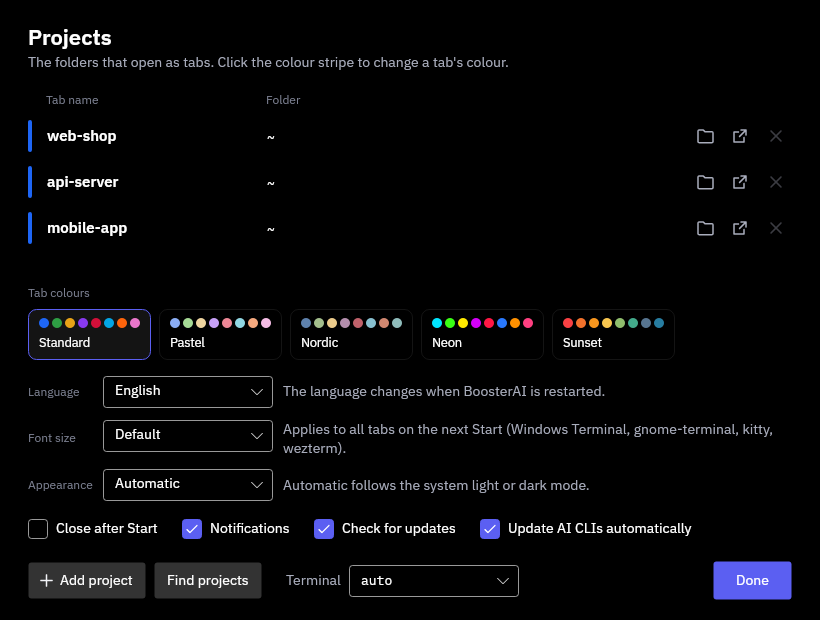
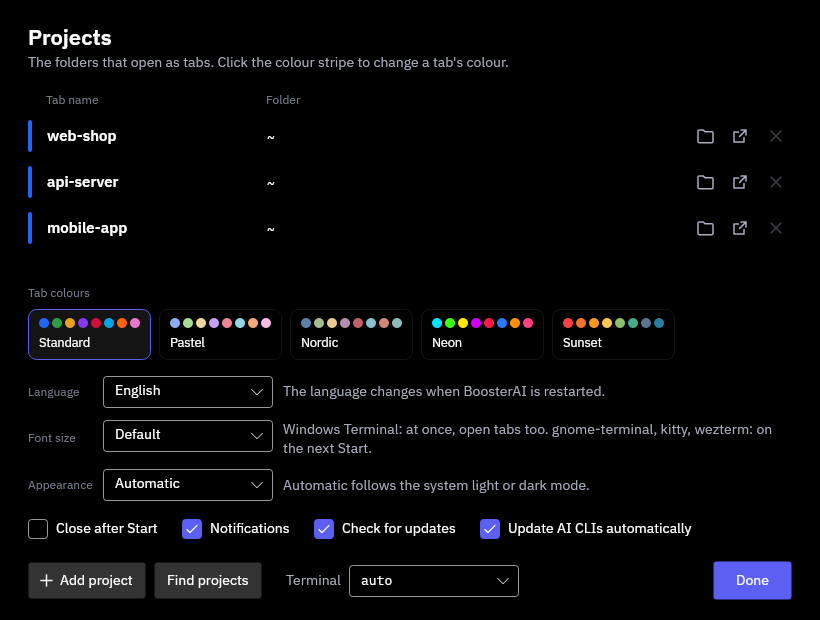
Save the zoom choice at once and apply it to open Windows Terminal tabs (#61)
A zoom chosen in Settings lived only in memory until the Settings or main
window closed, so the install script's Stop-Process -Force (or a crash or
logoff) lost it, and a second running instance saved its older value back on
its frequent update-check saves. The setter now saves immediately, every save
takes over settings another instance changed on disk (ConfigMerge), the
Windows fragment is rewritten and Windows Terminal nudged to reload at once,
and the Install orchestra tab no longer rewrites the fragment without zoom.

Changed region(s): [[0.3354, 0.6742, 0.9451, 0.7355]]

diff --git a/tests/BoosterAI.Tests/ConfigSaveTests.cs b/tests/BoosterAI.Tests/ConfigSaveTests.cs
@@ -1,0 +1,110 @@
+using BoosterAI;
+using Xunit;
+
+/// <summary>Tests that point ConfigStore at their own file; ConfigStore.PathOnDisk is global, so they never run in parallel.</summary>
+[CollectionDefinition(Name, DisableParallelization = true)]
+public class ConfigFileCollection
+{
+    public const string Name = "ConfigFile";
+}
+
+[Collection(ConfigFileCollection.Name)]
+public class ZoomSaveTests : IDisposable
+{
+    private readonly string _root = Path.Combine(Path.GetTempPath(), "bs-zoom-" + Guid.NewGuid().ToString("N"));
+
+    public ZoomSaveTests()
+    {
+        Directory.CreateDirectory(_root);
+        ConfigStore.UseFile(Path.Combine(_root, "config.json"));
+        ConfigStore.Save(new AppConfig { Tabs = [new TabConfig { Name = "Alpha" }] });
+    }
+
+    public void Dispose() => Directory.Delete(_root, recursive: true);
+
+    private static MainViewModel Started() => new(ConfigStore.Load());
+
+    private static ZoomChoice Choice(MainViewModel vm, int percent) => vm.ZoomChoices.Single(c => c.Percent == percent);
+
+    [Fact]
+    public void AZoomChoiceIsSavedAtOnceAndSurvivesARestart()
+    {
+        var vm = Started();
+        vm.SelectedZoom = Choice(vm, 80);
+
+        // No Settings close or app exit: the install script stops the app with Stop-Process -Force.
+        Assert.Equal(80, ConfigStore.Load().ZoomPercent);
+        Assert.Equal(80, Started().SelectedZoom.Percent);
+    }
+
+    [Fact]
+    public void OtherSavesOfTheSameInstanceKeepTheZoom()
+    {
+        var vm = Started();
+        vm.SelectedZoom = Choice(vm, 125);
+        vm.Tabs.Add(new TabViewModel(new TabConfig { Name = "Beta" }, vm, 1));
+        vm.MoveTab(0, 1);
+        vm.Save();
+
+        Assert.Equal(125, ConfigStore.Load().ZoomPercent);
+        Assert.Equal(["Beta", "Alpha"], ConfigStore.Load().Tabs.Select(t => t.Name));
+    }
+
+    [Fact]
+    public void AnOlderInstanceDoesNotPutBackTheOldZoom()
+    {
+        var tray = Started();
+        var settings = Started();
+        settings.SelectedZoom = Choice(settings, 80);
+
+        // The instance in the tray still holds 0 and saves its whole config, e.g. after an update check.
+        tray.Save();
+
+        Assert.Equal(80, ConfigStore.Load().ZoomPercent);
+        Assert.Equal(80, tray.SelectedZoom.Percent);
+        // Its own later choice still wins.
+        tray.SelectedZoom = Choice(tray, 150);
+        settings.Save();
+        Assert.Equal(150, ConfigStore.Load().ZoomPercent);
+    }
+}
+
+public class ConfigMergeTests
+{
+    [Fact]
+    public void EverySettingOutsideTheTabsIsTakenFromAnotherInstance()
+    {
+        var baseline = new AppConfig();
+        var disk = new AppConfig
+        {
+            WslDistro = "Debian", LinuxTerminal = "kitty", ColorTheme = "Other", Language = "en", AppTheme = "dark",
+            CloseAfterLaunch = true, Notifications = false, ZoomPercent = 80, AutoUpdateClis = false, CheckForUpdates = false,
+            SkippedVersion = "9.9.9", LastUpdateCheck = new DateTime(2026, 10, 29, 9, 18, 39, DateTimeKind.Utc),
+        };
+        var mine = new AppConfig();
+
+        Assert.True(ConfigMerge.TakeOthers(mine, baseline, disk));
+
+        // A new setting must be added to ConfigMerge, or a second instance silently reverts it.
+        foreach (var p in typeof(AppConfig).GetProperties().Where(p => p.Name != nameof(AppConfig.Tabs)))
+        {
+            Assert.NotEqual(p.GetValue(baseline), p.GetValue(disk));
+            Assert.Equal(p.GetValue(disk), p.GetValue(mine));
+        }
+    }
+
+    [Fact]
+    public void ThisInstancesOwnChangesAndTabsAreKept()
+    {
+        var baseline = new AppConfig { ZoomPercent = 0, Tabs = [new TabConfig { Name = "Old" }] };
+        var mine = new AppConfig { ZoomPercent = 90, Tabs = [new TabConfig { Name = "Mine" }] };
+        var disk = new AppConfig { ZoomPercent = 80, Language = "en", Tabs = [new TabConfig { Name = "Theirs" }] };
+
+        Assert.True(ConfigMerge.TakeOthers(mine, baseline, disk));
+
+        Assert.Equal(90, mine.ZoomPercent);
+        Assert.Equal("en", mine.Language);
+        Assert.Equal("Mine", mine.Tabs.Single().Name);
+        Assert.False(ConfigMerge.TakeOthers(mine, ConfigStore.Copy(mine), ConfigStore.Copy(mine)));
+    }
+}

diff --git a/src/BoosterAI/Config.cs b/src/BoosterAI/Config.cs
@@ -89,6 +89,20 @@ public static class ConfigStore
         return Defaults();
     }
 
+    /// <summary>The config as it is on disk now, or null when there is none or it cannot be read; never migrates.</summary>
+    public static AppConfig? TryRead()
+    {
+        try
+        {
+            return File.Exists(PathOnDisk) ? JsonSerializer.Deserialize(File.ReadAllText(PathOnDisk), ConfigJsonContext.Default.AppConfig) : null;
+        }
+        catch (Exception e) when (e is IOException or JsonException or UnauthorizedAccessException) { return null; }
+    }
+
+    /// <summary>A detached copy, e.g. the baseline <see cref="ConfigMerge"/> compares against.</summary>
+    public static AppConfig Copy(AppConfig cfg) =>
+        JsonSerializer.Deserialize(JsonSerializer.Serialize(cfg, ConfigJsonContext.Default.AppConfig), ConfigJsonContext.Default.AppConfig)!;
+
     public static void Save(AppConfig cfg)
     {
         System.IO.Directory.CreateDirectory(System.IO.Path.GetDirectoryName(PathOnDisk)!);
@@ -99,4 +113,53 @@ public static class ConfigStore
 
     /// <summary>First start: no projects; the start window asks for them.</summary>
     private static AppConfig Defaults() => new();
+}
+
+/// <summary>
+/// Every running BoosterAI keeps the config it loaded and saves all of it (update checks every few minutes,
+/// tab moves, Start, closing), and nothing stops a second instance (e.g. one started from the shortcut while
+/// another waits in the tray). Before a save, settings that another instance changed on disk while this one
+/// left them alone are taken over instead of being written back with the old value (#61: a zoom choice
+/// reverted to 0). Tabs are not merged.
+/// </summary>
+public static class ConfigMerge
+{
+    private sealed record Setting(Func<AppConfig, object?> Get, Action<AppConfig, AppConfig> Take);
+
+    private static Setting S<T>(Func<AppConfig, T> get, Action<AppConfig, T> set) => new(c => get(c), (to, from) => set(to, get(from)));
+
+    private static readonly Setting[] Settings =
+    [
+        S(c => c.WslDistro, (c, v) => c.WslDistro = v),
+        S(c => c.LinuxTerminal, (c, v) => c.LinuxTerminal = v),
+        S(c => c.ColorTheme, (c, v) => c.ColorTheme = v),
+        S(c => c.Language, (c, v) => c.Language = v),
+        S(c => c.AppTheme, (c, v) => c.AppTheme = v),
+        S(c => c.CloseAfterLaunch, (c, v) => c.CloseAfterLaunch = v),
+        S(c => c.Notifications, (c, v) => c.Notifications = v),
+        S(c => c.ZoomPercent, (c, v) => c.ZoomPercent = v),
+        S(c => c.AutoUpdateClis, (c, v) => c.AutoUpdateClis = v),
+        S(c => c.CheckForUpdates, (c, v) => c.CheckForUpdates = v),
+        S(c => c.SkippedVersion, (c, v) => c.SkippedVersion = v),
+        S(c => c.LastUpdateCheck, (c, v) => c.LastUpdateCheck = v),
+    ];
+
+    /// <summary>
+    /// Copies into <paramref name="mine"/> each setting (not the tabs) that <paramref name="disk"/> changed since
+    /// <paramref name="baseline"/> (what this instance last loaded or saved) while <paramref name="mine"/> still
+    /// has the baseline value. True when anything was taken.
+    /// </summary>
+    public static bool TakeOthers(AppConfig mine, AppConfig baseline, AppConfig disk)
+    {
+        var taken = false;
+        foreach (var s in Settings)
+        {
+            if (Equals(s.Get(mine), s.Get(baseline)) && !Equals(s.Get(disk), s.Get(baseline)))
+            {
+                s.Take(mine, disk);
+                taken = true;
+            }
+        }
+        return taken;
+    }
 }

diff --git a/src/BoosterAI/ViewModels.cs b/src/BoosterAI/ViewModels.cs
@@ -330,6 +330,8 @@ public sealed class TabViewModel : Observable
 public sealed partial class MainViewModel : Observable
 {
     private readonly AppConfig _cfg;
+    /// <summary>The config as this instance last loaded or saved it; see ConfigMerge.</summary>
+    private AppConfig _saved;
     private string _status = "";
     private bool _statusIsError;
     private string? _wslHome;
@@ -337,6 +339,7 @@ public sealed partial class MainViewModel : Observable
     public MainViewModel(AppConfig cfg)
     {
         _cfg = cfg;
+        _saved = ConfigStore.Copy(cfg);
         Tabs = new ObservableCollection<TabViewModel>(cfg.Tabs.Select((t, i) => new TabViewModel(t, this, i)));
         Tabs.CollectionChanged += (_, _) => TabsChanged();
         Update = new UpdateViewModel(cfg, Save);
@@ -476,7 +479,8 @@ public sealed partial class MainViewModel : Observable
         }
     }
 
-    /// <summary>Global CLI zoom shown in Settings; applies on the next start.</summary>
+    /// <summary>Global CLI zoom shown in Settings: saved at once (a killed app or a second instance must not lose it,
+    /// #61); Windows Terminal applies it to open BoosterAI tabs too, other terminals on the next start.</summary>
     public IReadOnlyList<ZoomChoice> ZoomChoices { get; } = [.. Launcher.ZoomChoices.Select(p => new ZoomChoice(p))];
 
     public ZoomChoice SelectedZoom
@@ -487,6 +491,8 @@ public sealed partial class MainViewModel : Observable
             if (value is null || value.Percent == _cfg.ZoomPercent) return;
             _cfg.ZoomPercent = value.Percent;
             Raise();
+            Save();
+            Launcher.ApplyZoom(value.Percent);
         }
     }
 
@@ -586,8 +592,24 @@ public sealed partial class MainViewModel : Observable
 
     public void Save()
     {
-        try { ConfigStore.Save(Snapshot(forLaunch: false)); }
+        try
+        {
+            if (ConfigStore.TryRead() is { } disk && ConfigMerge.TakeOthers(_cfg, _saved, disk)) SettingsTakenOver();
+            var cfg = Snapshot(forLaunch: false);
+            ConfigStore.Save(cfg);
+            _saved = ConfigStore.Copy(cfg);
+        }
         catch (Exception e) { ShowStatus(Loc.Format("status.saveFailed", e.Message), error: true); }
+    }
+
+    /// <summary>Shows the settings another instance saved (ConfigMerge) in this one's windows.</summary>
+    private void SettingsTakenOver()
+    {
+        foreach (var name in new[] { nameof(WslDistro), nameof(LinuxTerminal), nameof(Theme), nameof(SelectedTheme), nameof(SelectedLanguage),
+            nameof(SelectedAppearance), nameof(CloseAfterLaunch), nameof(Notifications), nameof(SelectedZoom), nameof(AutoUpdateClis), nameof(CheckForUpdates) })
+            Raise(name);
+        foreach (var t in Tabs) t.RaiseColor();
+        (Avalonia.Application.Current as App)?.ApplyTheme();
     }
 
     /// <summary>Saves the choices and opens the chosen tabs that are not already running; true on success.</summary>
@@ -1080,7 +1102,7 @@ public sealed partial class MainViewModel : Observable
     {
         var cfg = new AppConfig
         {
-            WslDistro = _cfg.WslDistro, LinuxTerminal = _cfg.LinuxTerminal,
+            WslDistro = _cfg.WslDistro, LinuxTerminal = _cfg.LinuxTerminal, ZoomPercent = _cfg.ZoomPercent,
             Tabs = [tab.ToConfig(forLaunch: false)],
         };
         cfg.Tabs[0].Enabled = true;

diff --git a/src/BoosterAI/Launcher.cs b/src/BoosterAI/Launcher.cs
@@ -375,6 +375,28 @@ fi
         return true;
     }
 
+    // Serializes fragment writes and reloads between a launch and ApplyZoom; _wantedZoom is the latest choice.
+    private static readonly object ZoomLock = new();
+    private static int _wantedZoom;
+
+    /// <summary>
+    /// Windows: writes the profile for a zoom chosen in Settings at once and makes a running Windows Terminal reload
+    /// it, so the open BoosterAI tabs and the CLIs restarted in them follow without a new Start (#61). In the background.
+    /// </summary>
+    public static void ApplyZoom(int zoomPercent)
+    {
+        if (!OperatingSystem.IsWindows()) return;
+        Volatile.Write(ref _wantedZoom, zoomPercent);
+        Task.Run(() =>
+        {
+            lock (ZoomLock)
+            {
+                try { if (SyncZoomFragment(Volatile.Read(ref _wantedZoom))) ReloadRunningWindowsTerminal(); }
+                catch (Exception e) when (e is IOException or UnauthorizedAccessException) { /* the next Start writes it again */ }
+            }
+        });
+    }
+
     /// <summary>settings.json of Windows Terminal (Store, Preview and unpackaged installs).</summary>
     private static IEnumerable<string> WtSettingsFiles()
     {
@@ -434,7 +456,7 @@ fi
     private static void LaunchWindowsTerminal(IReadOnlyList<TabConfig> tabs, string distro, string? prompt,
         IReadOnlyList<TabTrack?> tracks, string window, int zoomPercent, bool resume)
     {
-        if (SyncZoomFragment(zoomPercent)) ReloadRunningWindowsTerminal();
+        lock (ZoomLock) if (SyncZoomFragment(zoomPercent)) ReloadRunningWindowsTerminal();
         var psi = new ProcessStartInfo("wt.exe") { UseShellExecute = false };
         foreach (var arg in WindowsTerminalArgs(tabs, distro, prompt, tracks, window, zoomPercent, resume)) psi.ArgumentList.Add(arg);
         Process.Start(psi);

diff --git a/tests/BoosterAI.Tests/TabMonitorTests.cs b/tests/BoosterAI.Tests/TabMonitorTests.cs
@@ -698,6 +698,7 @@ public class TabActivityStatusTests
     }
 }
 
+[Collection(ConfigFileCollection.Name)]
 public class TabOrderTests
 {
     [Fact]

diff --git a/docs/DETAILS.md b/docs/DETAILS.md
@@ -24,9 +24,11 @@ The settings window holds your projects (name and directory, with a folder picke
 
 ### Font size
 
-*Font size* in the settings window zooms the CLI text in all tabs (80–200 %; saved as `"ZoomPercent"` in `config.json`, `0` = the terminal's default font size). It applies on the next Start.
+*Font size* in the settings window zooms the CLI text in all tabs (80–200 %; saved as `"ZoomPercent"` in `config.json`, `0` = the terminal's default font size). The choice is saved as soon as it is made, not only when the window closes. In Windows Terminal it applies at once, also to BoosterAI tabs that are already open (and so to CLIs restarted in them); in the Linux terminals on the next Start. Several BoosterAI instances may run at once (e.g. one in the tray and one started from the shortcut): each save takes over settings another instance changed in `config.json` instead of writing back its own older value; the tab list is not merged.
 
-On Windows, BoosterAI writes `%LOCALAPPDATA%\Microsoft\Windows Terminal\Fragments\BoosterAI\boosterai.json` (a hidden "BoosterAI" profile with [`closeOnExit: "always"`](https://learn.microsoft.com/windows/terminal/customize-settings/profile-advanced#profile-termination-behavior), plus `font.size` as a percentage of Windows Terminal's 12 pt default when an explicit zoom is selected; it inherits your other defaults) and opens the tabs with `-p BoosterAI`; at the default size the profile remains but omits `font`, inheriting your font settings. Only BoosterAI tabs select this profile, so your other profiles are unchanged. Windows Terminal reads fragments only when it loads its settings, so when the fragment changes while Windows Terminal is running, BoosterAI adds or removes one trailing newline in Windows Terminal's `settings.json` to make it reload, and waits two seconds before opening the tabs. That newline is the only change to your `settings.json`; your settings themselves are never touched.
+On Windows, BoosterAI writes `%LOCALAPPDATA%\Microsoft\Windows Terminal\Fragments\BoosterAI\boosterai.json` (a hidden "BoosterAI" profile with [`closeOnExit: "always"`](https://learn.microsoft.com/windows/terminal/customize-settings/profile-advanced#profile-termination-behavior), plus `font.size` as a percentage of Windows Terminal's 12 pt default when an explicit zoom is selected; it inherits your other defaults) and opens the tabs with `-p BoosterAI`; at the default size the profile remains but omits `font`, inheriting your font settings. Only BoosterAI tabs select this profile, so your other profiles are unchanged. Windows Terminal reads fragments only when it loads its settings, so when the fragment changes while Windows Terminal is running, BoosterAI adds or removes one trailing newline in Windows Terminal's `settings.json` to make it reload, and waits two seconds before opening the tabs. That newline is the only change to your `settings.json`; your settings themselves are never touched. When a zoom is chosen in Settings, BoosterAI writes the fragment and nudges a running Windows Terminal right away, so it reloads the profile for its open BoosterAI tabs too.
+
+Windows Terminal layers your own `settings.json` over a fragment: a `font` (size) on the "BoosterAI" entry in its `profiles.list` (Windows Terminal adds that entry, with `"source": "BoosterAI"`, the first time it loads the fragment) beats BoosterAI's zoom. If the zoom seems to do nothing, remove `font` from that entry in `settings.json` (the profile is hidden in Windows Terminal's settings UI), or set the size you want there yourself. `profiles.defaults` is a lower layer than the fragment, so a font size there does not override the zoom. Zooming a single tab with Ctrl+mouse wheel or Ctrl+= is Windows Terminal's own and lasts for that tab only.
 
 On Linux all tabs open as tabs of ONE window in `gnome-terminal` and `xfce4-terminal` (a single call with `--window` and `--tab` groups), and in `ptyxis` (Ubuntu 25.10+ and Fedora default; `--tab-with-profile=default --new-window` to preserve multi-tab mode and visible tab bar, then `--tab` in that window, each call waiting for the previous one; when Ptyxis is not running yet, BoosterAI turns its `restore-session` setting off until the tabs are open, because a restored session reopens the last run's tabs as plain shells in their old windows and those take the tabs; this suppression requires `gsettings`). `konsole` uses `--separate --new-tab` and a separate window per tab to avoid targeting an unrelated existing window. `kitty`, `wezterm`, `xterm` and `x-terminal-emulator` have no tabs here, so each tab gets its own window. With `auto`, Ptyxis is tried first, then gnome-terminal and the rest in the order listed.
 
